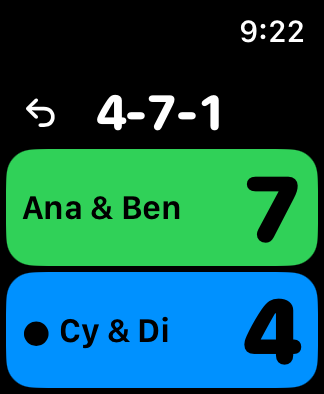
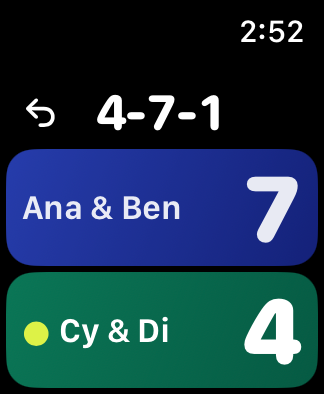
Watch: align team colours with phone court (team 1 blue, team 2 green) (#122)

diff --git a/watch/DinkWatch/Views/ScoreView.swift b/watch/DinkWatch/Views/ScoreView.swift
@@ -4,6 +4,27 @@ import DinkCore
 
 func teamName(_ game: GameState, _ t: Int) -> String { game.cfg.teams[t].joined(separator: " & ") }
 
+/// Matches the phone's floodlit court (dink-score.html, A11Y-START/END): team 1 is always court blue, team 2 court green,
+/// ball yellow marks the serving team, and the receiving side dims under the same 30% night veil. Pinned by test/contrast.test.js.
+private enum CourtColors {
+    static let team0Top = 0x3452EE
+    static let team0Bottom = 0x1A2BA6
+    static let team1Top = 0x0A7656
+    static let team1Bottom = 0x065A43
+    static let ball = 0xDDF247
+    static let idleVeil = Color(.sRGB, red: 6.0 / 255.0, green: 10.0 / 255.0, blue: 16.0 / 255.0, opacity: 0.30)
+
+    static func srgb(_ hex: Int) -> Color {
+        Color(.sRGB, red: Double((hex >> 16) & 0xFF) / 255.0, green: Double((hex >> 8) & 0xFF) / 255.0, blue: Double(hex & 0xFF) / 255.0)
+    }
+
+    static func gradient(for team: Int) -> LinearGradient {
+        let top = srgb(team == 0 ? team0Top : team1Top)
+        let bottom = srgb(team == 0 ? team0Bottom : team1Bottom)
+        return LinearGradient(colors: [top, bottom], startPoint: .topLeading, endPoint: .bottomTrailing)
+    }
+}
+
 /// The call (serving side first, as the phone says it), a big button per team, and undo.
 struct ScoreView: View {
     @Environment(AppModel.self) private var app
@@ -43,13 +64,20 @@ struct ScoreView: View {
     }
 
     private func teamButton(_ t: Int) -> some View {
-        Button {
+        let serving = game.serving == t
+        let shape = RoundedRectangle(cornerRadius: 14, style: .continuous)
+        return Button {
             WKInterfaceDevice.current().play(.click)
             app.session.score(side: t)
         } label: {
             HStack(spacing: 4) {
                 HStack(alignment: .firstTextBaseline, spacing: 4) {
-                    if game.serving == t { Image(systemName: "circle.fill").font(.system(size: 13)).accessibilityHidden(true) }
+                    if serving {
+                        Image(systemName: "circle.fill")
+                            .font(.system(size: 13))
+                            .foregroundStyle(CourtColors.srgb(CourtColors.ball))
+                            .accessibilityHidden(true)
+                    }
                     Text(teamName(game, t)).font(.system(size: 17, weight: .semibold)).lineLimit(2).minimumScaleFactor(0.6).multilineTextAlignment(.leading)
                 }
                 Spacer(minLength: 0)
@@ -58,10 +86,15 @@ struct ScoreView: View {
             }
             .padding(.horizontal, 8)
             .frame(maxWidth: .infinity, maxHeight: .infinity)
-            .background(RoundedRectangle(cornerRadius: 14, style: .continuous).fill(t == 0 ? Color.green : Color.blue))
-            .foregroundStyle(.black)
+            .background {
+                ZStack {
+                    shape.fill(CourtColors.gradient(for: t))
+                    if !serving { shape.fill(CourtColors.idleVeil) }
+                }
+            }
+            .foregroundStyle(serving ? Color.white : Color.white.opacity(0.9))
         }
         .buttonStyle(.plain)
-        .accessibilityLabel("Point for \(teamName(game, t)). Score \(game.score[t]).")
+        .accessibilityLabel("Point for \(teamName(game, t)).\(serving ? " Serving." : "") Score \(game.score[t]).")
     }
 }

diff --git a/test/contrast.test.js b/test/contrast.test.js
@@ -72,3 +72,30 @@ test('outdoor display: every court text is opaque and the display setting is wir
   assert.match(html, /data-act="display"[^>]*aria-pressed/);
   assert.match(html, /id="a11y-live"[^>]*aria-live="polite"/);
 });
+
+// Watch score screen must match the phone's team-colour rule (team 0 = court blue on top, team 1 = court green below)
+// and pass WCAG AA contrast for white ink and the ball-yellow serving dot on OLED in both active and dimmed states.
+test('watch score screen: team colours match phone court and pass contrast', () => {
+  const swift = fs.readFileSync(new URL('../watch/DinkWatch/Views/ScoreView.swift', import.meta.url), 'utf8');
+  const swiftHex = name => {
+    const m = new RegExp(`static let ${name}\\s*=\\s*0x([0-9A-Fa-f]{6})\\b`).exec(swift);
+    assert.ok(m, `missing watch colour constant ${name}`);
+    return hexRgb(m[1]);
+  };
+  const team0 = [swiftHex('team0Top'), swiftHex('team0Bottom')];
+  const team1 = [swiftHex('team1Top'), swiftHex('team1Bottom')];
+  const ball = swiftHex('ball');
+  assert.deepEqual(team0, halfVars('.half'), 'watch team 0 must match phone team 1 (court blue)');
+  assert.deepEqual(team1, halfVars('.half[data-k="b"]'), 'watch team 1 must match phone team 2 (court green)');
+  assert.deepEqual(ball, light.ball, 'watch serving dot must match ball yellow');
+  assert.ok(swift.indexOf('teamButton(0)') !== -1 && swift.indexOf('teamButton(0)') < swift.indexOf('teamButton(1)'),
+    'watch must render team 0 on top and team 1 below, matching the phone');
+  for (const [label, stops] of [['watch team 0 (blue)', team0], ['watch team 1 (green)', team1]]) {
+    for (const c of stops) {
+      assert.ok(ratio(WHITE, c) >= 4.5, `${label} active white text: ${ratio(WHITE, c).toFixed(2)}:1`);
+      assert.ok(ratio(ball, c) >= 4.5, `${label} serving dot: ${ratio(ball, c).toFixed(2)}:1`);
+      const idle = over([6, 10, 16], c, 0.3);
+      assert.ok(ratio(over(WHITE, idle, 0.9), idle) >= 4.5, `${label} idle white text: ${ratio(over(WHITE, idle, 0.9), idle).toFixed(2)}:1`);
+    }
+  }
+});

diff --git a/watch/README.md b/watch/README.md
@@ -17,7 +17,7 @@ watch/
 | Link | not linked | *Enter a game code* (below the QR) and the QR code as large as the screen allows (a square under the clock, whole-pixel modules on white), then, one scroll or Digital Crown turn below it, the 4 numbers the phone asks for and 6 characters to type if the camera is no use. A new code every ~4.5 minutes. |
 | Game code | *Enter a game code* | the 6 characters and 4 numbers the scoring phone shows; links the watch to that one game |
 | Idle | linked, no game sent | club name (or *Linked to one game*), *Link another phone* (or *Enter a game code*), *Unlink* |
-| Score | a game is attached | the call (serving side first, as the phone says it) with undo beside it, then one full-width button per team that fills the rest of the screen: team name (17 pt, up to two lines), a dot on the serving team, and the score in 68 pt type (shrinks for 3 digits) |
+| Score | a game is attached | the call (serving side first, as the phone says it) with undo beside it, then one full-width button per team that fills the rest of the screen (team 1 in court blue on top, team 2 in court green below, matching the phone; the receiving side dims): team name (17 pt, up to two lines), a ball-yellow dot on the serving team, and the score in 68 pt type (shrinks for 3 digits) |
 | Game over | the game is won | winner and score, *Finish* (`watch-finish`), *Undo last point*, *Close without saving* |
 
 **One game, no club.** A watch can hold a link to a single game instead of the club: the scoring phone (club sheet, *Apple Watch*, *This game*) shows *a code for the watch to type* (6 characters and 4 numbers, one watch per code, good for 10 minutes), and the watch's *Enter a game code* sends them with `watch-join`. A phone with no club, such as Safari opened from the watch's QR with the iPhone Camera, can instead enter the scoring phone's code on that page (`watch-claim-game`), and the scoring phone can scan the watch's QR: *Link a watch to this game* on the scoring screen opens the camera, and the scan links the watch to that game with nothing to type (the QR carries the 4 numbers; the typed code is under the camera). That link reads and scores only that game, is never told the club's name, lasts 8 hours from when the watch collects it (it does not slide), lapses 15 minutes after the watch finishes the game, and ends at once when the phone ends the game or unlinks it. A link icon beside the call marks it on the score screen. The club-wide link and *Send this game to a watch* are unchanged.
